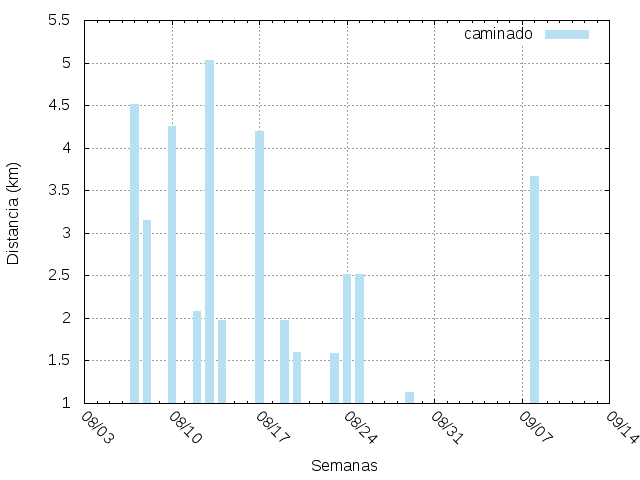
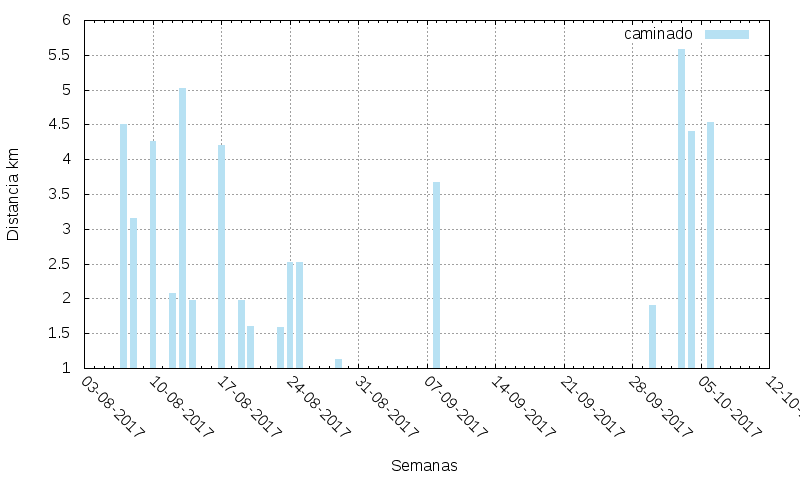
Agregada opción de tamaño de imagen a exportar

diff --git a/README.md b/README.md
@@ -5,28 +5,7 @@ La idea es simplemente facilitar el ingreso de datos y mostrar un reporte
 en pantalla, con la posibilidad de exportar en un gráfico y mantener simples
 los archivos para permitir editarlos manualmente de ser necesario.
 
-El reporte gráfico:
 ![render gnuplot](/imgs/distancia.png)
-
-El archivo donde se guardan las fechas y distancias
-```bash
-Fecha        Distancia
-----------------------
-2017-08-07 | 4.51
-2017-08-08 | 3.15
-2017-08-10 | 2.52 1.74
-2017-08-12 | 2.08
-2017-08-13 | 5.03
-2017-08-14 | 1.98
-2017-08-17 | 2.52 1.68
-2017-08-19 | 1.98
-2017-08-20 | 1.60
-2017-08-23 | 1.59
-2017-08-24 | 2.52
-2017-08-25 | 2.52
-2017-08-29 | 1.13
-2017-09-08 | 2.52 1.15
-```
 
 ## Uso
 
@@ -35,9 +14,9 @@ Fecha        Distancia
 
 $ caminado.pl6 --help
 Usage:
-  caminado.pl6 [--save-as=<Any>] 
-  caminado.pl6 [--reporte] [--file=<Any>] 
-  caminado.pl6 [--plot] [--file=<Any>] [--save-as=<Any>]
+  caminado.pl6 [--save-as=<Str>] 
+  caminado.pl6 [--report] [--file=<Str>] 
+  caminado.pl6 [--plot] [--file=<Str>] [--save-as=<Str>] [--size=<Str>]
 
 ### ingresar datos
 
@@ -57,35 +36,34 @@ Distancia:
 ### reporte
 
 # reporte en pantalla 
-$ caminado.pl6 --reporte 
+$ caminado.pl6 --report
 
-REPORTE
-----------------------------------------
-Distancia total: 40.22 km
-        periodo: 32 días
-Mayor distancia: 5.03 km
-          fecha: 2017-08-13
-         semana: 32
-       Promedio: 2.87 km
+    REPORTE
+    --------------------------------------
+    Distancia total: 56.64 km en 60 días
+    Mayor distancia: 5.58 km el 2017-10-03
+           Promedio: 3.15 km 
+
+        *** Datos exportados ***
 
 # reporte en pantalla y exportando datos
-$ caminado.pl6 --reporte --file='septiembre-2017'
+$ caminado.pl6 --report --file='septiembre-2017'
 
-REPORTE
-----------------------------------------
-Distancia total: 40.22 km
-        periodo: 32 días
-Mayor distancia: 5.03 km
-          fecha: 2017-08-13
-         semana: 32
-       Promedio: 2.87 km
+    REPORTE
+    --------------------------------------
+    Distancia total: 56.64 km en 60 días
+    Mayor distancia: 5.58 km el 2017-10-03
+           Promedio: 3.15 km 
 
-Datos exportados
+        *** Datos exportados ***
 
 ### plot se ocupa del graficar
 
 # usando archivos por defecto
 $ caminado.pl6 --plot
+
+# modifica el tamaño de la imagen
+$ caminado.pl6 --plot --size="1280,600"
 
 # especificando  el archivo que conviene los datos exportados
 $ caminado.pl6 --plot --file='archivo.dat'
